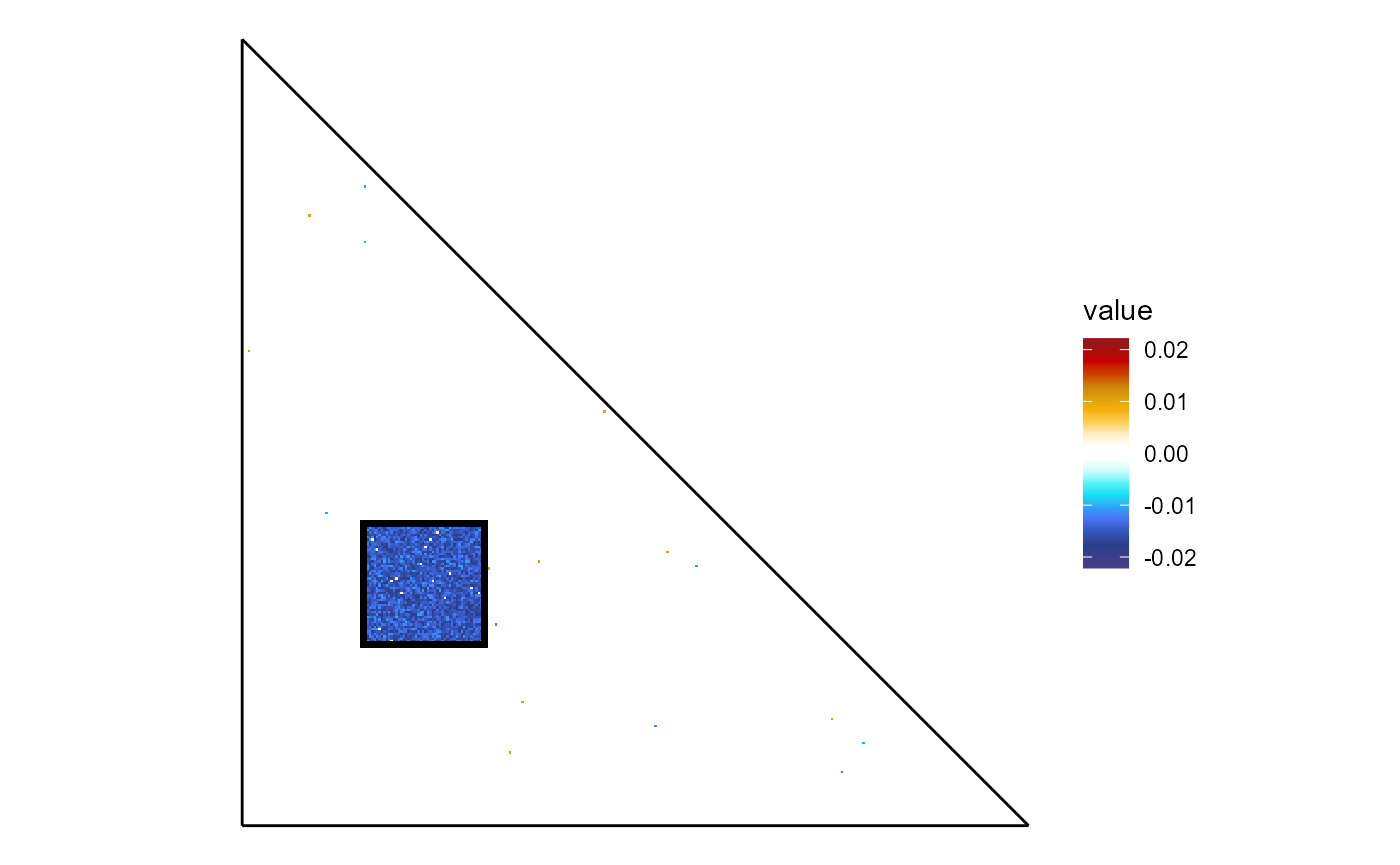
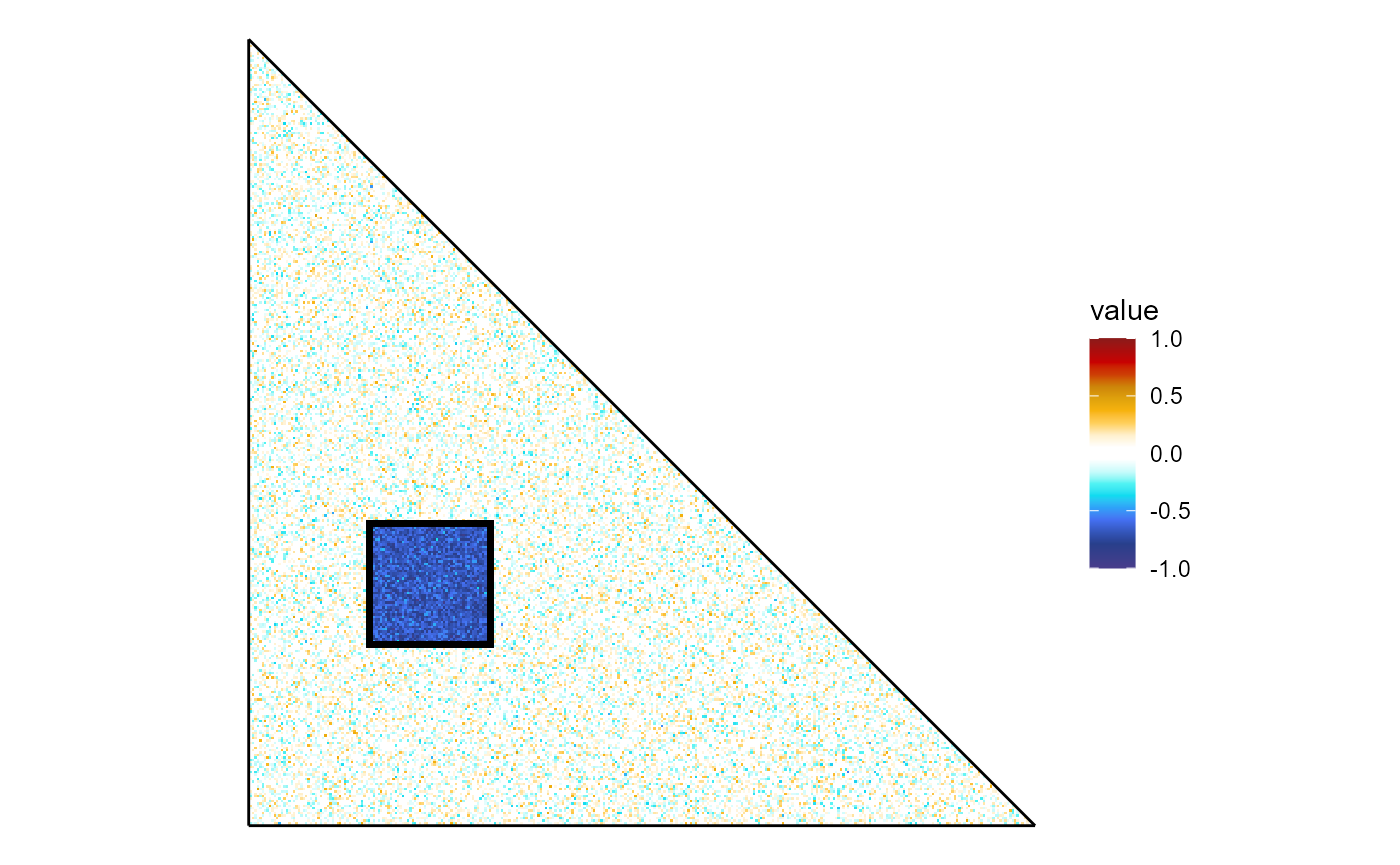
backprojectFCnet gais a normthresh parameter to scale coefficients within -1 - 1 and prune the smaller ones

Changed region(s): [[0.1536, 0.0312, 0.7371, 0.9676], [0.7679, 0.3434, 0.86, 0.6555]]

diff --git a/docs/articles/FCnet_overview_of_package.html b/docs/articles/FCnet_overview_of_package.html
@@ -230,8 +230,8 @@
                  alpha<span class="op">=</span> <span class="fl">0</span>, <span class="co">#ridge regression</span>
                  parallelLOO <span class="op">=</span> <span class="cn">F</span><span class="op">)</span> 
 <span class="va">r_bias</span><span class="op">$</span><span class="va">R2</span></code></pre></div>
-<pre><code>## [1] 0.4550954</code></pre>
-<p>It appears that this model is capable to explain about 45% of the variance from LOO observations.</p>
+<pre><code>## [1] 0.4439749</code></pre>
+<p>It appears that this model is capable to explain about 44% of the variance from LOO observations.</p>
 <p>A graphical depiction of the fit or coefficients can be obtained with <code><a href="../reference/plotFCnet.html">plotFCnet()</a></code>:</p>
 <div class="sourceCode" id="cb19"><pre class="downlit sourceCode r">
 <code class="sourceCode R"><span class="fu"><a href="../reference/plotFCnet.html">plotFCnet</a></span><span class="op">(</span>model <span class="op">=</span> <span class="va">r_bias</span>, 
@@ -251,7 +251,8 @@
 <p>We ensure that back-projected coefficients properly identify the network that we perturbed:</p>
 <div class="sourceCode" id="cb22"><pre class="downlit sourceCode r">
 <code class="sourceCode R"><span class="va">bp_bias</span><span class="op">=</span> <span class="fu"><a href="../reference/backprojectFCnet.html">backprojectFCnet</a></span><span class="op">(</span>coeffs <span class="op">=</span> <span class="va">r_bias</span>, 
-                          reduce_features_object <span class="op">=</span> <span class="va">rf_bias</span>,
+                          reduce_features_object <span class="op">=</span> <span class="va">rf_bias</span>, 
+                          normthresh <span class="op">=</span> <span class="cn">F</span>,
                           threshold <span class="op">=</span> <span class="fu"><a href="https://rdrr.io/r/base/length.html">length</a></span><span class="op">(</span><span class="va">network1</span><span class="op">)</span><span class="op">*</span><span class="fu"><a href="https://rdrr.io/r/base/length.html">length</a></span><span class="op">(</span><span class="va">network2</span><span class="op">)</span><span class="op">)</span>
 
 <span class="fu"><a href="../reference/plotFC.html">plotFC</a></span><span class="op">(</span><span class="va">bp_bias</span><span class="op">)</span> <span class="op">+</span> <span class="va">grid_net</span></code></pre></div>
@@ -261,9 +262,10 @@
 <div class="sourceCode" id="cb23"><pre class="downlit sourceCode r">
 <code class="sourceCode R"><span class="va">bp_first</span><span class="op">=</span> <span class="fu"><a href="../reference/backprojectFCnet.html">backprojectFCnet</a></span><span class="op">(</span>coeffs <span class="op">=</span> <span class="fl">1</span>,  
                           reduce_features_object <span class="op">=</span> <span class="va">rf_bias</span>,
-                          threshold <span class="op">=</span> <span class="fu"><a href="https://rdrr.io/r/base/length.html">length</a></span><span class="op">(</span><span class="va">network1</span><span class="op">)</span><span class="op">*</span><span class="fu"><a href="https://rdrr.io/r/base/length.html">length</a></span><span class="op">(</span><span class="va">network2</span><span class="op">)</span><span class="op">)</span>
-
-<span class="fu"><a href="../reference/plotFC.html">plotFC</a></span><span class="op">(</span><span class="va">bp_first</span><span class="op">)</span> <span class="op">+</span> <span class="va">grid_net</span></code></pre></div>
+                          threshold <span class="op">=</span> <span class="fu"><a href="https://rdrr.io/r/base/length.html">length</a></span><span class="op">(</span><span class="va">network1</span><span class="op">)</span><span class="op">*</span><span class="fu"><a href="https://rdrr.io/r/base/length.html">length</a></span><span class="op">(</span><span class="va">network2</span><span class="op">)</span><span class="op">)</span></code></pre></div>
+<pre><code>## Warning in backprojectFCnet(coeffs = 1, reduce_features_object = rf_bias, : Parameter threshold disregarded because normthresh is TRUE</code></pre>
+<div class="sourceCode" id="cb25"><pre class="downlit sourceCode r">
+<code class="sourceCode R"><span class="fu"><a href="../reference/plotFC.html">plotFC</a></span><span class="op">(</span><span class="va">bp_first</span><span class="op">)</span> <span class="op">+</span> <span class="va">grid_net</span></code></pre></div>
 <p><img src="FCnet_overview_of_package_files/figure-html/unnamed-chunk-12-1.png" width="700"></p>
 <p>Indeed, the first component mainly taps onto the network that we have biased. Edges have a negative loading on this feature, but they have a positive association with the behavioral score.</p>
 </div>
@@ -272,7 +274,7 @@
 <a href="#testing-significance-permutation-test" class="anchor"></a>Testing significance: permutation test</h2>
 <p>Large R2 values may occur by chance or simply in light of the many predictors in the model - even though this problem is mitigated by using the LOO R2. In order to test whether this R2 is beyond chance, we can run a permutation test. Here, values of y are shuffled and then predicted. Ideally, the distribution of the models created in this way should cover - and inform about - the range of the null model.</p>
 <p>Note that, in order to optimize computational resources, we only ask for 50 permutations (generally not enough) and, most importantly, we use parallel computing to optimize the procedure. When <code>parallelLOO</code> is <code>TRUE</code>, the outer cycles are run in parallel on multiple cores (if available) by using the package <code>future.apply</code>, which must be installed. In addition, <code>plan(multisession</code> or similar must be invoked in advance by the user.</p>
-<div class="sourceCode" id="cb24"><pre class="downlit sourceCode r">
+<div class="sourceCode" id="cb26"><pre class="downlit sourceCode r">
 <code class="sourceCode R"><span class="fu">plan</span><span class="op">(</span><span class="va">multisession</span><span class="op">)</span> <span class="co">#prepare for parallel computing</span>
 
 <span class="fu"><a href="https://rdrr.io/r/base/Random.html">set.seed</a></span><span class="op">(</span><span class="fl">1</span><span class="op">)</span>
@@ -387,15 +389,15 @@
   |=========================================================================================================================================================================================================================================================================================================================================================================================================================================================================================================================================================================================================================================================================================================================================================================================================================================================================================================================================================================================================                    |  98%
   |                                                                                                                                                                                                                                                                                                                                                                                                                                                                                                                                                                                                                                                                                                                                                                                                                                                                                                                                                                                                                                   
   |=============================================================================================================================================================================================================================================================================================================================================================================================================================================================================================================================================================================================================================================================================================================================================================================================================================================================================================================================================================================================================================| 100%</code></pre>
-<div class="sourceCode" id="cb26"><pre class="downlit sourceCode r">
+<div class="sourceCode" id="cb28"><pre class="downlit sourceCode r">
 <code class="sourceCode R"><span class="fu">knitr</span><span class="fu">::</span><span class="fu"><a href="https://rdrr.io/pkg/knitr/man/kable.html">kable</a></span><span class="op">(</span><span class="va">perm_bias</span><span class="op">$</span><span class="va">Summary</span><span class="op">)</span></code></pre></div>
 <table class="table">
 <colgroup>
 <col width="9%">
-<col width="11%">
+<col width="12%">
 <col width="7%">
 <col width="9%">
-<col width="9%">
+<col width="8%">
 <col width="9%">
 <col width="11%">
 <col width="11%">
@@ -415,16 +417,16 @@
 <th align="right">Quantile_95</th>
 </tr></thead>
 <tbody><tr class="odd">
-<td align="right">0.4550954</td>
+<td align="right">0.4439749</td>
 <td align="right">50</td>
 <td align="right">0</td>
-<td align="right">0.0364484</td>
-<td align="right">0.0312414</td>
-<td align="right">0.0976816</td>
-<td align="right">0.02</td>
-<td align="right">0.0242587</td>
-<td align="right">0.090485</td>
-<td align="right">0.0965333</td>
+<td align="right">0.0167841</td>
+<td align="right">0.031879</td>
+<td align="right">0.0792669</td>
+<td align="right">0</td>
+<td align="right">0.0043456</td>
+<td align="right">0.0719234</td>
+<td align="right">0.0780952</td>
 </tr></tbody>
 </table>
 <p>The original model’s R2 is reported on the left. On the rightmost part of the row, a few statistics concerning the distribution of R2 from null models is reported. The full distribution is available to the user anyway in the created object through the relative slot. In this fictional scenario, and considering the low number of permutations, it appears that the original model beats most null models. Models can always be improved by crossvalidating the number of features to extract, which is now implemented in both <code><a href="../reference/FCnetLOO.html">FCnetLOO()</a></code> and consequently <code><a href="../reference/permutateLOO.html">permutateLOO()</a></code>. In addition, selection of coefficients on the basis of permutated samples is now possible through the <code><a href="../reference/select_coefficients.html">select_coefficients()</a></code> function.</p>
@@ -438,7 +440,7 @@
 <h2 class="hasAnchor">
 <a href="#appendix" class="anchor"></a>Appendix</h2>
 <p>Packages’ versions:</p>
-<div class="sourceCode" id="cb27"><pre class="downlit sourceCode r">
+<div class="sourceCode" id="cb29"><pre class="downlit sourceCode r">
 <code class="sourceCode R"><span class="fu"><a href="https://rdrr.io/r/utils/sessionInfo.html">sessionInfo</a></span><span class="op">(</span><span class="op">)</span></code></pre></div>
 <pre><code>## R version 4.0.3 (2020-10-10)
 ## Platform: x86_64-w64-mingw32/x64 (64-bit)
@@ -456,7 +458,7 @@
 ## [1] future.apply_1.7.0 future_1.21.0      gridExtra_2.3      ggplot2_3.3.3      FCnet_0.1.8.9000   glmnetUtils_1.1.8  glmnet_4.1-1       Matrix_1.2-18     
 ## 
 ## loaded via a namespace (and not attached):
-##  [1] Rcpp_1.0.6        lattice_0.20-41   listenv_0.8.0     assertthat_0.2.1  rprojroot_2.0.2   digest_0.6.27     foreach_1.5.1     utf8_1.2.1        parallelly_1.25.0 plyr_1.8.6        R6_2.5.0          evaluate_0.14     highr_0.8         pillar_1.6.0      settings_0.2.7    rlang_0.4.11      jquerylib_0.1.4   rmarkdown_2.7     pkgdown_1.6.1     labeling_0.4.2    textshaping_0.3.1 desc_1.2.0        splines_4.0.3     stringr_1.4.0     munsell_0.5.0     compiler_4.0.3    xfun_0.21         pkgconfig_2.0.3   systemfonts_1.0.1 shape_1.4.5       mgcv_1.8-33       globals_0.14.0    htmltools_0.5.1.1 tidyselect_1.1.0  tibble_3.1.1      codetools_0.2-16  fansi_0.4.2       crayon_1.4.1      dplyr_1.0.5       withr_2.4.2       grid_4.0.3        nlme_3.1-149      jsonlite_1.7.2    gtable_0.3.0      lifecycle_1.0.0   DBI_1.1.1         magrittr_2.0.1    scales_1.1.1      stringi_1.6.1     cachem_1.0.4      farver_2.1.0      reshape2_1.4.4    fs_1.5.0          bslib_0.2.4       ellipsis_0.3.2   
+##  [1] Rcpp_1.0.7        lattice_0.20-41   listenv_0.8.0     assertthat_0.2.1  rprojroot_2.0.2   digest_0.6.27     foreach_1.5.1     utf8_1.2.1        parallelly_1.25.0 plyr_1.8.6        R6_2.5.0          evaluate_0.14     highr_0.8         pillar_1.6.0      settings_0.2.7    rlang_0.4.11      jquerylib_0.1.4   rmarkdown_2.7     pkgdown_1.6.1     labeling_0.4.2    textshaping_0.3.1 desc_1.2.0        splines_4.0.3     stringr_1.4.0     munsell_0.5.0     compiler_4.0.3    xfun_0.21         pkgconfig_2.0.3   systemfonts_1.0.1 shape_1.4.5       mgcv_1.8-33       globals_0.14.0    htmltools_0.5.1.1 tidyselect_1.1.0  tibble_3.1.1      codetools_0.2-16  fansi_0.4.2       crayon_1.4.1      dplyr_1.0.5       withr_2.4.2       grid_4.0.3        nlme_3.1-149      jsonlite_1.7.2    gtable_0.3.0      lifecycle_1.0.0   DBI_1.1.1         magrittr_2.0.1    scales_1.1.1      stringi_1.6.1     cachem_1.0.4      farver_2.1.0      reshape2_1.4.4    fs_1.5.0          bslib_0.2.4       ellipsis_0.3.2   
 ## [56] ragg_1.1.1        generics_0.1.0    vctrs_0.3.8       iterators_1.0.13  tools_4.0.3       glue_1.4.2        purrr_0.3.4       parallel_4.0.3    fastmap_1.1.0     survival_3.2-7    yaml_2.2.1        colorspace_2.0-1  memoise_2.0.0     knitr_1.31        sass_0.3.1</code></pre>
 </div>
   </div>
